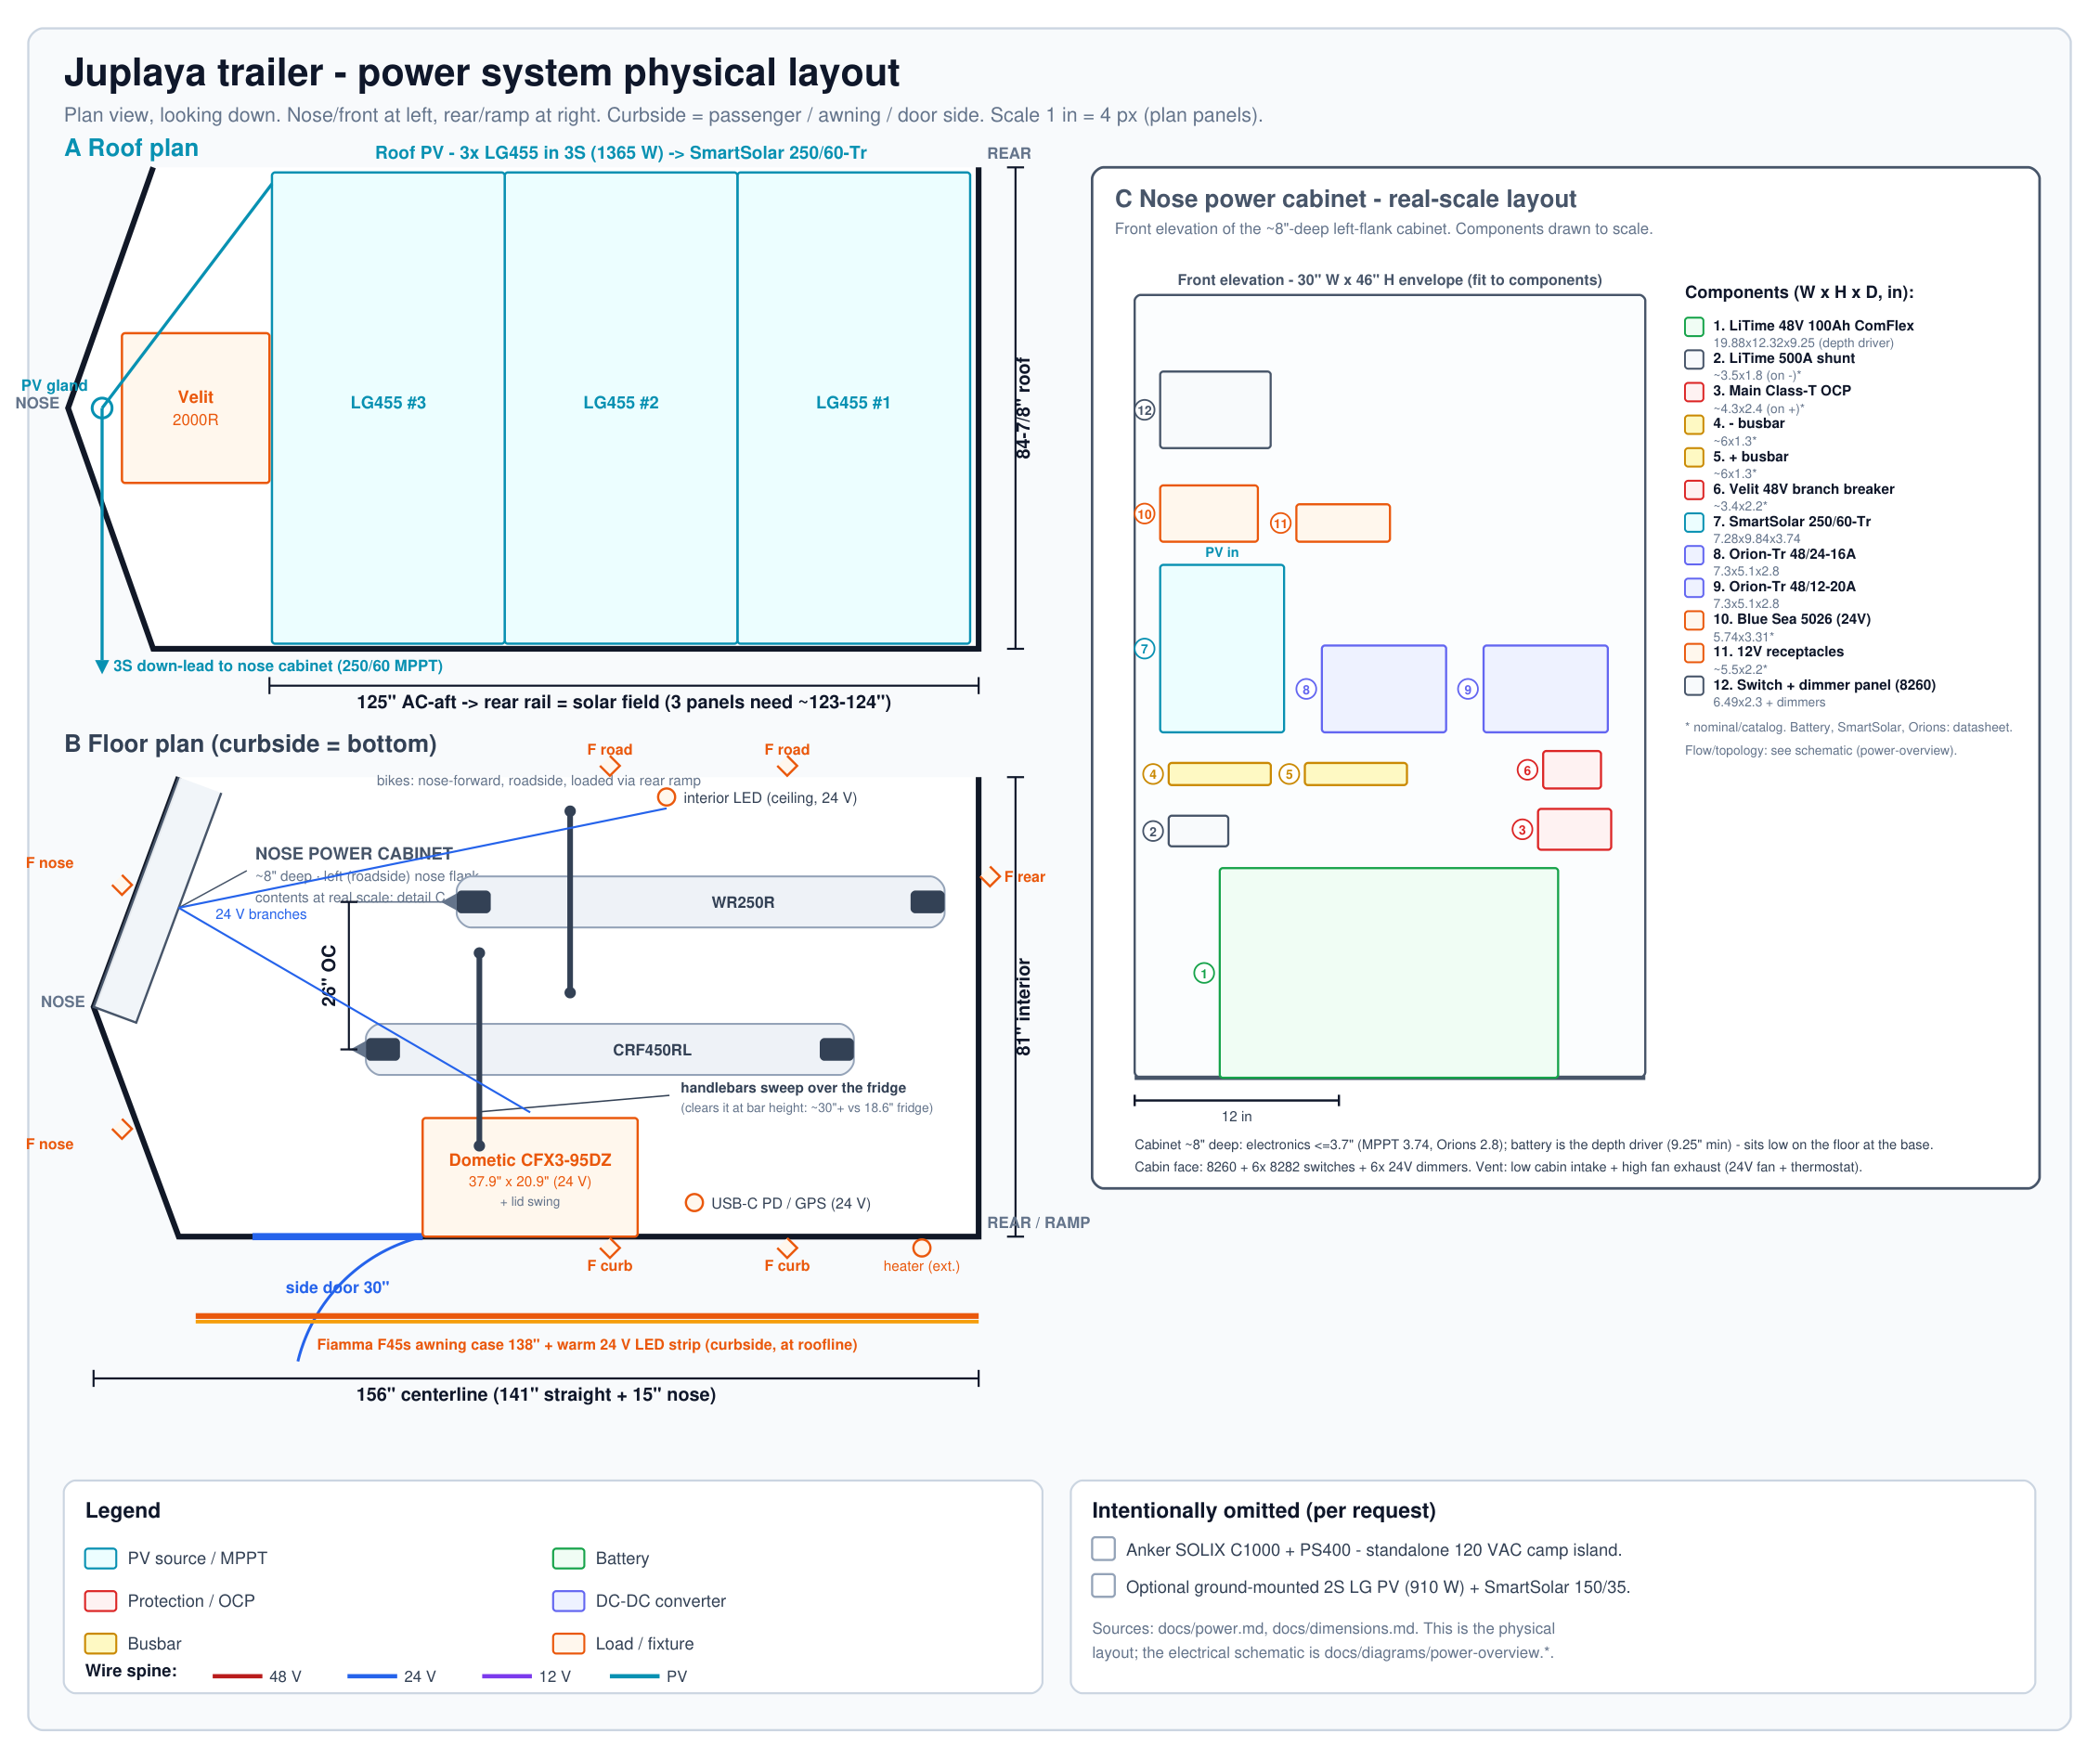
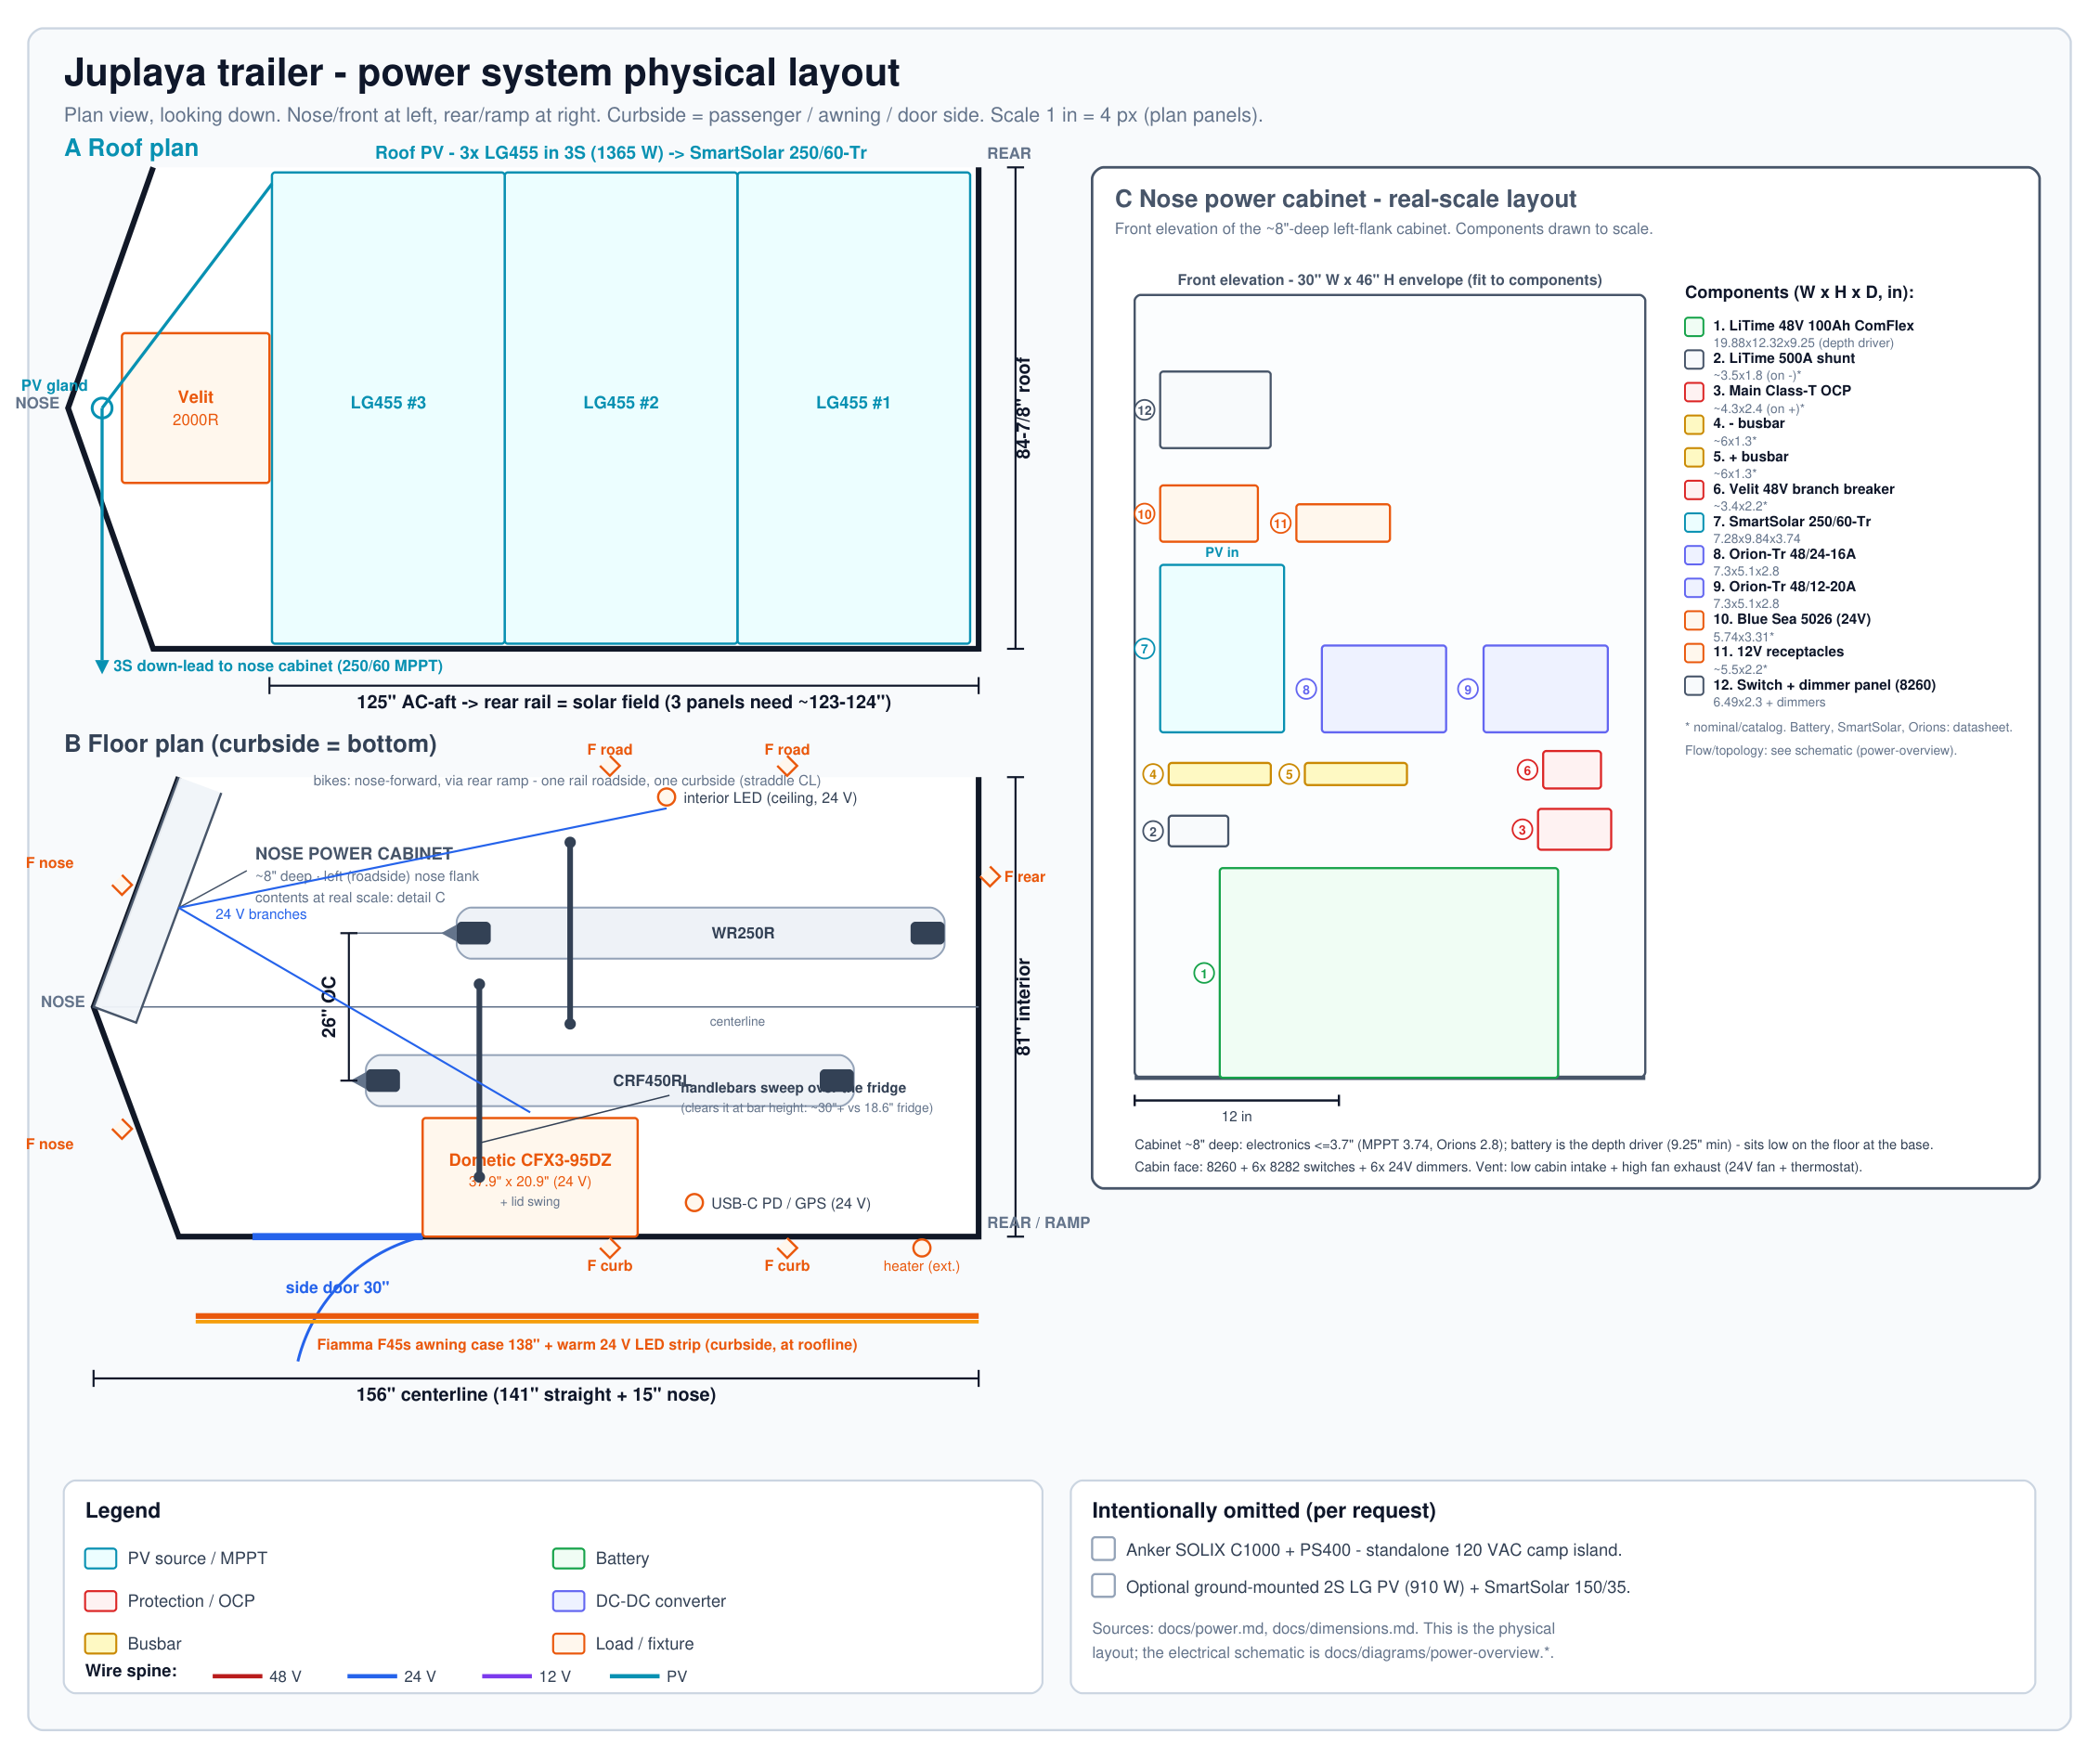
Correct bike placement: rails straddle centerline, not roadside half
Owner clarification: the two L-track rows sit one each side of the
centerline (one roadside, one curbside, ~26" off each wall) at 26" on
center - they are centered, not "on the roadside half".

- Diagram: added a centerline to the floor plan; repositioned the bikes to
  straddle it (WR250R roadside, CRF450RL curbside), with the curbside bar
  sweep landing over the fridge. Relabeled accordingly.
- Build sheet: bike line now reads "straddling the centerline (one L-track
  row roadside, one curbside, ~26" off each wall)" instead of "on the
  roadside half"; floor-geometry clause notes one row each side of CL.

diff --git a/scripts/generate_power_physical_layout_svg.py b/scripts/generate_power_physical_layout_svg.py
@@ -206,6 +206,10 @@ text(45, 530, "B  Floor plan  (curbside = bottom)", size=17, weight=700, fill=C[
 poly([(REAR_X, ft), (REAR_X, fb), (f_taper, fb), (f_tip, fmid), (f_taper, ft)],
      fill="#ffffff", stroke=C["wall"], sw=4)
 
+# centerline (the two bike rows straddle it)
+line(f_tip + 6, fmid, REAR_X, fmid, stroke=C["muted"], sw=1, dash="9 7")
+text(520, fmid + 13, "centerline", size=9, anchor="middle", fill=C["muted"])
+
 # --- nose power cabinet: ~8" deep, localized to the LEFT (roadside) nose flank ---
 # Upper flank A(taper-start, top) -> B(nose tip); offset inward into the cabin by 8".
 fdx, fdy = f_tip - f_taper, fmid - ft
@@ -240,7 +244,7 @@ text(frx + frw / 2, fb - frd / 2 - 8, "Dometic CFX3-95DZ", size=12, weight=700, 
 text(frx + frw / 2, fb - frd / 2 + 6, "37.9\" x 20.9\" (24 V)", size=10, anchor="middle", fill=C["load_s"])
 text(frx + frw / 2, fb - frd / 2 + 20, "+ lid swing", size=9, anchor="middle", fill=C["muted"])
 
-# --- bikes (roadside/top, nose-forward, near the rear; bars overlap the fridge) ---
+# --- bikes: 26" OC straddling the centerline (one rail roadside, one curbside), near rear ---
 def draw_bike(x_front, x_rear, y, bar_x, bar_w, label):
     rect(x_front, y - 18, x_rear - x_front, 36, fill="#eef2f7",
          stroke=C["omit"], sw=1.3, dash="5 3", rx=10)
@@ -254,14 +258,14 @@ def draw_bike(x_front, x_rear, y, bar_x, bar_w, label):
     text((x_front + x_rear) / 2 + 30, y + 4, label, size=11, weight=700,
          anchor="middle", fill=C["slate"])
 
-bikeA_y = ft + 22 * S
-bikeB_y = ft + 48 * S                       # 26" OC below bike A
+bikeA_y = ft + 27.5 * S                     # roadside rail (~27" off the roadside wall)
+bikeB_y = ft + 53.5 * S                     # curbside rail, 26" OC (~27" off the curbside wall)
 draw_bike(322, 666, bikeA_y, 402, 32 * S, "WR250R")
 draw_bike(258, 602, bikeB_y, 338, 34 * S, "CRF450RL")
 line(322, bikeA_y, 246, bikeA_y, stroke=C["muted"], sw=1)
 line(258, bikeB_y, 246, bikeB_y, stroke=C["muted"], sw=1)
 dimv(246, bikeA_y, bikeB_y, '26" OC', side="left")
-text(380, ft + 6, "bikes: nose-forward, roadside, loaded via rear ramp",
+text(400, ft + 6, "bikes: nose-forward, via rear ramp - one rail roadside, one curbside (straddle CL)",
      size=10, anchor="middle", fill=C["muted"])
 # bar-overlap callout
 line(338, bikeB_y + 44, 472, fb - frd - 16, stroke=C["slate"], sw=1, dash="3 3")

diff --git a/docs/juplaya-trailer-context.md b/docs/juplaya-trailer-context.md
@@ -145,7 +145,7 @@ Two configurations share one floor: **moto mode** (both bikes in, gear on the wa
 
 ### Bikes & floor L-track
 
-- **WR250R + CRF450RL (~590 lb pair), side-by-side, nose-forward, on the roadside half and set toward the rear (rear wheels near the ramp) — so the handlebars sweep over the curbside fridge bay** (clear at bar height over the 18.6" fridge), in **ordered Bolt It On 360 L-track wheel chocks** (12–18" stagger so the bars interleave). Floor geometry: **two lengthwise floor L-track rows, 26" on center**, flush/recessed and bolted through to steel/backing; the 4 factory D-rings get reused as backup tie points. Primary motorcycle crash restraint stays on the floor L-track and factory 5,000 lb D-rings tied to the steel frame/crossmembers, not on the wall E-track.
+- **WR250R + CRF450RL (~590 lb pair), side-by-side, nose-forward, straddling the centerline (one L-track row roadside, one curbside, ~26" off each wall) and set toward the rear (rear wheels near the ramp) — so the curbside bike's handlebars sweep over the fridge bay** (clear at bar height over the 18.6" fridge), in **ordered Bolt It On 360 L-track wheel chocks** (12–18" stagger so the bars interleave). Floor geometry: **two lengthwise floor L-track rows, 26" on center** (one each side of the centerline), flush/recessed and bolted through to steel/backing; the 4 factory D-rings get reused as backup tie points. Primary motorcycle crash restraint stays on the floor L-track and factory 5,000 lb D-rings tied to the steel frame/crossmembers, not on the wall E-track.
 - **⚠ Floor plan rework gate:** the original ~24" E-track centerline spacing **failed** — cross-exam found ~9" of handlebar interference. The L-track row spacing is now fixed at **26" on center**, and the floor steel/crossmembers are verified **16" on center**. Bike geometry is no longer a tape gate: final placement is verified by putting the bikes in the trailer and checking the 26" L-track placement plus handlebar overlap before final drill/coating commitment. Evidence/options: [L-track floor chock options](research/l-track-floor-chock-options-2026-06-05.md).
 - **Aisle reality:** the nominal ~30" walking aisle shrinks to **~20" effective at bar height** — fridge access and egress are planned around that, not the floor-level number.
 - **Track/chock order status:** floor L-track = **2 × 8 ft flanged L-track sections ordered / on the way (2026-06-05)**; **Bolt It On 360 L-track wheel chocks ordered (2026-06-05)**. The ~50–60 ft of E-track on hand should be treated as wall-track stock first, not floor stock.